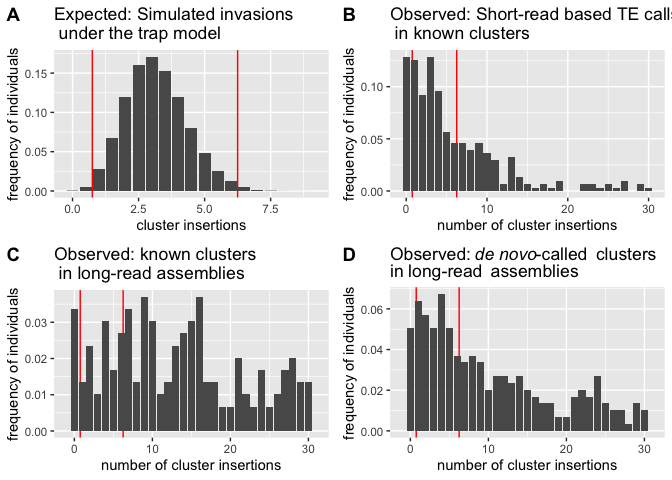
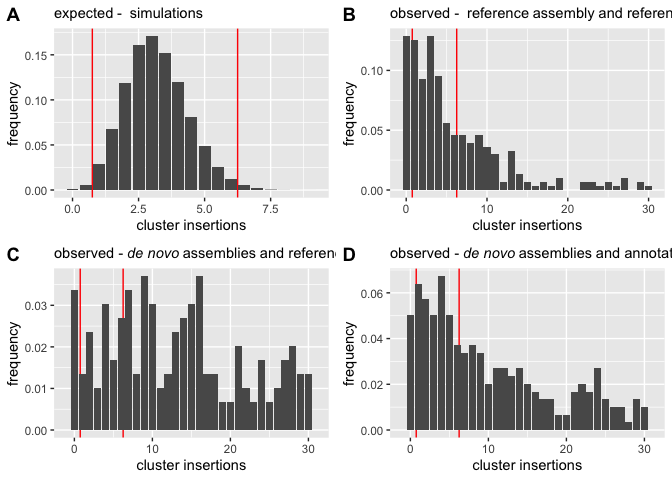
figure text adjusted

diff --git a/rmd-scripts/main-cor.md b/rmd-scripts/main-cor.md
@@ -51,8 +51,8 @@ t$global<-t$global/2 #for halpoid abundance
 t$local<-t$local/2 #for halpoid abundance
 
 
-gS<-ggplot(t, aes(x=global, y=local)) + geom_point()+stat_cor(method = "kendall", label.x = 50.1, label.y = 6.5,size=3)+ 
-  geom_smooth(method='lm', formula= y~x)+xlab("non-cluster insertions")+ylab("cluster insertions")+xlim(50,200)+ggtitle("Expected: Simulated invasions \n under the trap model")
+gS<-ggplot(t, aes(x=global, y=local)) + geom_point()+stat_cor(cor.coef.name="tau",method = "kendall", label.x = 50.1, label.y = 6.5,size=3)+ 
+  geom_smooth(method='lm', formula= y~x)+xlab("non-cluster insertions")+ylab("cluster insertions")+xlim(50,200)+ggtitle("expected - simulations")+theme(plot.title = element_markdown(size=11))
 
 
 
@@ -145,8 +145,8 @@ cC$cluster<-log10(cC$avrcl+1)
 cC$noncluster<-log10(cC$avrrest+1)
 
 
-gPop<-ggplot(cC,aes(x=noncluster,y=cluster))+geom_point()+stat_cor(method = "kendall", label.x = 0.1, label.y = 1.42,size=3)+ 
-  geom_smooth(method='lm', formula= y~x)+xlab("non-cluster insertions")+ylab("cluster insertions")+scale_x_continuous(breaks=c(0,1,2,3),labels=c("0","9","99","999"))+scale_y_continuous(breaks=c(0,1,2,3),labels=c("0","9","99","999"))+ggtitle("Observed: Short-read based TE calls \n in known clusters")
+gPop<-ggplot(cC,aes(x=noncluster,y=cluster))+geom_point()+stat_cor(cor.coef.name="tau",method = "kendall", label.x = 0, label.y = 1.42,size=3)+ 
+  geom_smooth(method='lm', formula= y~x)+xlab("non-cluster insertions")+ylab("cluster insertions")+scale_x_continuous(breaks=c(0,1.041393,2.004321,3.000434),labels=c("0","10","100","1000"))+scale_y_continuous(breaks=c(0,1.041393,2.004321,3.000434),labels=c("0","10","100","1000"))+ggtitle("observed - reference assembly and reference annotations")+theme(plot.title = element_markdown(size=11))
 
 
 
@@ -221,8 +221,8 @@ cC$cluster<-log10(cC$avrcl+1)
 cC$noncluster<-log10(cC$avrrest+1)
 
 
-gC<-ggplot(cC,aes(x=noncluster,y=cluster))+geom_point()+stat_cor(method = "kendall", label.x = 0.5, label.y = 2.0,size=3)+ 
-  geom_smooth(method='lm', formula= y~x)+xlab("non-cluster insertions")+ylab("cluster insertions")+scale_x_continuous(breaks=c(0,1,2,3),labels=c("0","9","99","999"))+scale_y_continuous(breaks=c(0,1,2,3),labels=c("0","9","99","999"))+ggtitle("Observed: known clusters \n in long-read assemblies ")
+gC<-ggplot(cC,aes(x=noncluster,y=cluster))+geom_point()+stat_cor(cor.coef.name="tau",method = "kendall", label.x = 0.5, label.y = 2.35,size=3)+ 
+  geom_smooth(method='lm', formula= y~x)+xlab("non-cluster insertions")+ylab("cluster insertions")+scale_x_continuous(breaks=c(0,1.041393,2.004321,3.000434),labels=c("0","10","100","1000"))+scale_y_continuous(breaks=c(0,1.041393,2.004321,3.000434),labels=c("0","10","100","1000"))+ggtitle("observed -*de novo* assemblies and reference annotations")+theme(plot.title = element_markdown(size=11))
 
 
 
@@ -290,8 +290,8 @@ cC$cluster<-log10(cC$avrcl+1)
 cC$noncluster<-log10(cC$avrrest+1)
 
 
-gP<-ggplot(cC,aes(x=noncluster,y=cluster))+geom_point()+stat_cor(method = "kendall", label.x = 1, label.y = 2,size=3)+ 
-  geom_smooth(method='lm', formula= y~x)+xlab("non-cluster insertions")+ylab("cluster insertions")+scale_x_continuous(breaks=c(0,1,2,3),labels=c("0","9","99","999"))+scale_y_continuous(breaks=c(0,1,2,3),labels=c("0","9","99","999"))+ggtitle("Observed: *de novo*-called clusters<br>in long-read assemblies ")+theme(plot.title = element_markdown())
+gP<-ggplot(cC,aes(x=noncluster,y=cluster))+geom_point()+stat_cor(cor.coef.name="tau",method = "kendall", label.x = 0.85, label.y = 2,size=3)+ 
+  geom_smooth(method='lm', formula= y~x)+xlab("non-cluster insertions")+ylab("cluster insertions")+scale_x_continuous(breaks=c(0,1.041393,2.004321,3.000434),labels=c("0","10","100","1000"))+scale_y_continuous(breaks=c(0,1.041393,2.004321,3.000434),labels=c("0","10","100","1000"))+ggtitle("observed -*de novo* assemblies and annotations")+theme(plot.title = element_markdown(size=11))
 
 
 
@@ -317,6 +317,6 @@ plot(gcor)
 ![](main-cor_files/figure-gfm/unnamed-chunk-1-1.png)<!-- -->
 
 ``` r
-ggsave("/Users/filipwierzbicki/Desktop/trap_model/analysis/abu/figures/correlation_main.pdf",width=7,height=6)
-ggsave("/Users/filipwierzbicki/Desktop/trap_model/analysis/abu/figures/correlation_main.png",width=7,height=6)
+ggsave("/Users/filipwierzbicki/Desktop/trap_model/analysis/abu/figures/correlation_main.pdf",width=9,height=6)
+ggsave("/Users/filipwierzbicki/Desktop/trap_model/analysis/abu/figures/correlation_main.png",width=9,height=6)
 ```

diff --git a/rmd-scripts/main-histo.md b/rmd-scripts/main-histo.md
@@ -110,7 +110,7 @@ for (row in 1:nrow(tso)) {
   }
 }
 
-simu<-ggplot(ts, aes(x=abundance, y=rel)) + geom_vline( xintercept =alq,col="red")+ geom_vline( xintercept =auq,col="red") + geom_bar(stat = "identity")+ylab("frequency of individuals")+xlab("cluster insertions")+ggtitle("Expected: Simulated invasions \n under the trap model")#+xlim(-1,160)+ylim(0,0.35)
+simu<-ggplot(ts, aes(x=abundance, y=rel)) + geom_vline( xintercept =alq,col="red")+ geom_vline( xintercept =auq,col="red") + geom_bar(stat = "identity")+ylab("frequency")+xlab("cluster insertions")+ggtitle("expected - simulations")+theme(plot.title = element_markdown(size=11))
 
 
 #######
@@ -192,7 +192,7 @@ ht<-unique(ht)
 ht$indsrel<-ht$inds/sum(ht$inds)
 
 
-real<-ggplot(ht, aes(x=cluster, y=indsrel))+ geom_vline( xintercept =alq,col="red")+ geom_vline( xintercept =auq,col="red") + geom_bar(stat="identity")+ylab("frequency of individuals")+xlab("number of cluster insertions")+xlim(-1,31)+ggtitle("Observed: known clusters \n in long-read assemblies ")#+xlim(-1,160)+ylim(0,0.35)
+real<-ggplot(ht, aes(x=cluster, y=indsrel))+ geom_vline( xintercept =alq,col="red")+ geom_vline( xintercept =auq,col="red") + geom_bar(stat="identity")+ylab("frequency")+xlab("cluster insertions")+xlim(-1,31)+ggtitle("observed -*de novo* assemblies and reference annotations")+theme(plot.title = element_markdown(size=11))
 
 
 ##ref (not used currently)
@@ -245,7 +245,7 @@ cR<-unique(cR)
 cR$indsrel<-cR$inds/sum(cR$inds)
 
 
-ref<-ggplot(cR, aes(x=cluster, y=indsrel))+ geom_vline( xintercept =alq,col="red")+ geom_vline( xintercept =auq,col="red") + geom_bar(stat="identity")+ylab("frequency of individuals")+xlab("number of reference insertions")#+xlim(-1,160)+ylim(0,0.35)
+ref<-ggplot(cR, aes(x=cluster, y=indsrel))+ geom_vline( xintercept =alq,col="red")+ geom_vline( xintercept =auq,col="red") + geom_bar(stat="identity")+ylab("frequency")+xlab("number of reference insertions")#+xlim(-1,160)+ylim(0,0.35)
 
 
 ###whole genome (not used currently)
@@ -289,7 +289,7 @@ tqu<-unique(tqu)
 tqu$indsrel<-tqu$inds/sum(tqu$inds)
 
 
-whole<-ggplot(tqu, aes(x=insertions, y=indsrel)) + geom_bar(stat="identity")+ylab("frequency of individuals")+xlab("number of genomic insertions")#+xlim(-1,160)+ylim(0,0.35)
+whole<-ggplot(tqu, aes(x=insertions, y=indsrel)) + geom_bar(stat="identity")+ylab("frequency")+xlab("number of genomic insertions")#+xlim(-1,160)+ylim(0,0.35)
 
 
 ###popTE2:
@@ -369,7 +369,7 @@ pt<-unique(pt)
 pt$indsrel<-pt$inds/sum(pt$inds)
 
 
-popTE2<-ggplot(pt, aes(x=cluster, y=indsrel))+ geom_vline( xintercept =alq,col="red")+ geom_vline( xintercept =auq,col="red") + geom_bar(stat="identity")+ylab("frequency of individuals")+xlab("number of cluster insertions")+ggtitle("Observed: Short-read based TE calls \n in known clusters")#+xlim(-1,160)+ylim(0,0.35)
+popTE2<-ggplot(pt, aes(x=cluster, y=indsrel))+ geom_vline( xintercept =alq,col="red")+ geom_vline( xintercept =auq,col="red") + geom_bar(stat="identity")+ylab("frequency")+xlab("cluster insertions")+ggtitle("observed - reference assembly and reference annotations")+theme(plot.title = element_markdown(size=11))
 
 
 
@@ -440,7 +440,7 @@ prt<-unique(prt)
 prt$indsrel<-prt$inds/sum(prt$inds)
 
 
-proT<-ggplot(prt, aes(x=cluster, y=indsrel))+ geom_vline( xintercept =alq,col="red")+ geom_vline( xintercept =auq,col="red") + geom_bar(stat="identity")+ylab("frequency of individuals")+xlab("number of cluster insertions")+xlim(-1,31)+ggtitle("Observed: *de novo*-called clusters<br>in long-read assemblies ")+theme(plot.title = element_markdown())
+proT<-ggplot(prt, aes(x=cluster, y=indsrel))+ geom_vline( xintercept =alq,col="red")+ geom_vline( xintercept =auq,col="red") + geom_bar(stat="identity")+ylab("frequency")+xlab("cluster insertions")+xlim(-1,31)+ggtitle("observed -*de novo* assemblies and annotations")+theme(plot.title = element_markdown(size=11))
 
 
 
@@ -465,6 +465,6 @@ plot(g)
 ![](main-histo_files/figure-gfm/unnamed-chunk-1-1.png)<!-- -->
 
 ``` r
-ggsave("/Users/filipwierzbicki/Desktop/trap_model/analysis/abu/figures/histogram_main.pdf",width=7.5,height=6)
-ggsave("/Users/filipwierzbicki/Desktop/trap_model/analysis/abu/figures/histogram_main.png",width=7.5,height=6)
+ggsave("/Users/filipwierzbicki/Desktop/trap_model/analysis/abu/figures/histogram_main.pdf",width=9,height=6)
+ggsave("/Users/filipwierzbicki/Desktop/trap_model/analysis/abu/figures/histogram_main.png",width=9,height=6)
 ```
